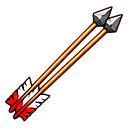
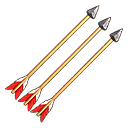
A-006: пачка 57/57, листы, 5 значков п. 1 в игре
Все 57 заданий Мака вернулись. Листы work/screens/A-006_*.png (значки
до/после, этап 3, враги, Цербер), значки 128 и концепты 512 в work/art/.
По эскизу перезаказаны и поставлены (TEMP_, уголок, манифест): молот,
стена деревянная, настил, дверь, стрелы. art_icon_set.py и
make_item_icons.py их не перезаписывают.

Changed region(s): [[0.0312, 0.0312, 0.9688, 0.9688]]

diff --git a/tools/art_a006.py b/tools/art_a006.py
@@ -6,6 +6,8 @@
     python tools/art_a006.py collect                  # скачать готовое в build/art_a006/raw/<ключ>.png
     python tools/art_a006.py wait [--every 600]       # фоновый сборщик: collect раз в N секунд, пока очередь не пуста
     python tools/art_a006.py table                    # таблица заданий (markdown) для карточки
+    python tools/art_a006.py sheets                   # листы work/screens/A-006_*.png, значки 128 и концепты 512 в work/art/
+    python tools/art_a006.py install предмет=ключ …   # поставить выбранные значки п. 1 в игру (TEMP_, уголок, манифест)
 
 Модель — Z-Image base (z_image_bf16), 30 шагов, cfg 4, граф как у tools/art_stage1.py. Значки п. 1 — img2img
 по эскизу (LoadImage → VAEEncode → KSampler с denoise < 1): контролнета под Z-Image на Маке нет (ModelPatchLoader
@@ -479,9 +481,169 @@ def cmd_table():
         print(f"| `{k}` | `{j['pid']}` | {j['seed']} | {sk} | {j.get('status')} |")
 
 
+# ---------------------------------------------------------------- листы
+P1_LABEL = {"hammer": "молот", "wood_wall": "стена деревянная", "platform": "настил", "door": "дверь", "arrows": "стрелы"}
+IC_LABEL = {"copper_helmet": "медный шлем", "copper_chestplate": "медный доспех", "copper_greaves": "медные поножи",
+            "copper_arrows": "медные стрелы", "bandage": "повязка", "healing_herb": "лечебная трава",
+            "torch_box": "факел-ящик", "wood_spikes": "шипы деревянные"}
+EN_LABEL = {"swordsman": "разбойник-мечник", "archer": "разбойник-лучник", "wolf": "волк", "shade": "тень"}
+ICONS_OUT = ROOT / "work" / "art" / "icons_a006"
+SCREENS = ROOT / "work" / "screens"
+
+
+def icon_pair(key):
+    """Сырая картинка → (128, 64) с вырезанным фоном; None — нет картинки."""
+    import numpy as np
+    sys.path.insert(0, str(Path(__file__).resolve().parent))
+    import art_icon_probe as probe
+    src = RAW / f"{key}.png"
+    if not src.exists():
+        return None
+    im = Image.open(src).convert("RGB")
+    cut = probe.cut_green(im)
+    border = np.concatenate([np.asarray(im)[:8].reshape(-1, 3), np.asarray(im)[-8:].reshape(-1, 3)])
+    med = np.median(border, axis=0)
+    if not (med[1] > med[0] + 60 and med[1] > med[2] + 60):     # фон не зелёный: цвет предмета не гасить
+        cut = Image.merge("RGBA", (*im.split(), cut.getchannel("A")))
+    return probe.fit(cut, 128), probe.fit(cut, 64)
+
+
+def label_font(size, bold=False):
+    sys.path.insert(0, str(Path(__file__).resolve().parent))
+    import art_icon_probe as probe
+    return probe.font(size, bold)
+
+
+def grass_cell(ic128):
+    sys.path.insert(0, str(Path(__file__).resolve().parent))
+    import art_icon_probe as probe
+    g = probe.grass(probe.CELL + 16, probe.CELL + 16)
+    g.alpha_composite(probe.cell_with(probe.fit_from(ic128, probe.ICON) if ic128 is not None else None), (8, 8))
+    return g
+
+
+def icon_sheet(title, rows, out, before=None):
+    """rows: [(подпись, [ключи])]; before: {подпись: картинка 128 «до»}."""
+    led = load_ledger()
+    ICONS_OUT.mkdir(parents=True, exist_ok=True)
+    ncol = max(len(k) for _, k in rows) + (2 if before else 0)
+    cw, rh, left, top = 150, 230, 200, 60
+    W, H = left + ncol * cw + 20, top + len(rows) * rh + 10
+    sh = Image.new("RGBA", (W, H), (236, 222, 196, 255))
+    d = ImageDraw.Draw(sh)
+    d.text((16, 14), title, fill=(50, 30, 20), font=label_font(24, True))
+    for ri, (lab, keys) in enumerate(rows):
+        y = top + ri * rh
+        d.text((16, y + 50), lab, fill=(50, 30, 20), font=label_font(20, True))
+        cells = []
+        if before:
+            cells.append(("было", before[lab][0]))
+            cells.append(("эскиз", before[lab][1]))
+        for k in keys:
+            pair = icon_pair(k)
+            if pair:
+                pair[0].save(ICONS_OUT / f"{k}_128.png", optimize=True)
+            j = led.get(k, {})
+            note = f"d={j['denoise']}" if j.get("denoise") else ("без эскиза" if k.startswith("p1_") else "")
+            cells.append((f"{k.rsplit('_', 1)[-1]} {note}".strip(), pair[0] if pair else None))
+        for ci, (cap, im) in enumerate(cells):
+            x = left + ci * cw
+            d.rectangle((x, y, x + 132, y + 132), outline=(170, 130, 80))
+            if im is None:
+                d.text((x + 10, y + 56), "нет", fill=(170, 40, 30), font=label_font(18))
+            else:
+                im = im.convert("RGBA")
+                if im.size != (128, 128):
+                    im = im.resize((128, 128), Image.LANCZOS)
+                sh.alpha_composite(im, (x + 2, y + 2))
+                if cap != "эскиз":
+                    sh.alpha_composite(grass_cell(im), (x + 34, y + 140))
+            d.text((x + 2, y + 208), cap, fill=(70, 45, 30), font=label_font(14))
+    SCREENS.mkdir(parents=True, exist_ok=True)
+    sh.convert("RGB").save(out, optimize=True)
+    print("лист:", out)
+
+
+def concept_sheet(title, rows, out, px, dst_dir):
+    dst_dir.mkdir(parents=True, exist_ok=True)
+    ncol = max(len(k) for _, k in rows)
+    left, top = 220, 60
+    W, H = left + ncol * (px + 12) + 10, top + len(rows) * (px + 40)
+    sh = Image.new("RGB", (W, H), (236, 222, 196))
+    d = ImageDraw.Draw(sh)
+    d.text((16, 14), title, fill=(50, 30, 20), font=label_font(24, True))
+    for ri, (lab, keys) in enumerate(rows):
+        y = top + ri * (px + 40)
+        d.text((16, y + px // 2 - 12), lab, fill=(50, 30, 20), font=label_font(22, True))
+        for ci, k in enumerate(keys):
+            x = left + ci * (px + 12)
+            src = RAW / f"{k}.png"
+            if src.exists():
+                im = Image.open(src).convert("RGB")
+                im.resize((512, 512), Image.LANCZOS).save(dst_dir / f"{k}.png", optimize=True)
+                sh.paste(im.resize((px, px), Image.LANCZOS), (x, y))
+            else:
+                d.rectangle((x, y, x + px, y + px), outline=(170, 130, 80))
+                d.text((x + 20, y + px // 2), "нет картинки", fill=(170, 40, 30), font=label_font(18))
+            d.text((x + 4, y + px + 6), k, fill=(70, 45, 30), font=label_font(15))
+    sh.save(out, optimize=True)
+    print("лист:", out)
+
+
+def cmd_sheets():
+    icons_b = ROOT / "art" / "style" / "icons_b"
+    temp = ROOT / "client" / "Assets" / "Art" / "_TEMP"
+    before = {}
+    for k, lab in P1_LABEL.items():
+        b = icons_b / f"{k}_128.png"
+        old = Image.open(b) if b.exists() else Image.open(temp / f"TEMP_item_{k}.png").resize((128, 128), Image.NEAREST)
+        before[lab] = (old, Image.open(SKETCH / f"sk_{k}.png").convert("RGBA"))
+    icon_sheet("A-006 п. 1 — перезаказ значков по эскизу (img2img Z-Image, denoise) и строгим промптом",
+               [(lab, [f"p1_{k}_{i}" for i in ("1", "2", "3", "4", "t")]) for k, lab in P1_LABEL.items()],
+               SCREENS / "A-006_icons_p1.png", before)
+    icon_sheet("A-006 п. 2 — значки этапа 3 (стиль Б), по 2 варианта",
+               [(lab, [f"ic_{k}_1", f"ic_{k}_2"]) for k, lab in IC_LABEL.items()], SCREENS / "A-006_icons_stage3.png")
+    concept_sheet("A-006 п. 3 — концепты врагов этапа 3 (вид сверху 3/4)",
+                  [(lab, [f"en_{k}_{i}" for i in (1, 2, 3)]) for k, lab in EN_LABEL.items()],
+                  SCREENS / "A-006_enemies.png", 384, ROOT / "work" / "art" / "enemies")
+    concept_sheet("A-006 п. 4 — Цербер, концепты босса (вид сверху 3/4)",
+                  [("Цербер", [f"cer_{i}" for i in (1, 2, 3, 4)])], SCREENS / "A-006_cerberus.png", 448,
+                  ROOT / "work" / "art" / "cerberus")
+
+
+
+def cmd_install(pairs):
+    """предмет=ключ … → art/style/icons_b/<предмет>_128/_64.png, TEMP_item_<предмет>.png (64, пурпурный уголок), манифест."""
+    import csv
+    icons_b = ROOT / "art" / "style" / "icons_b"
+    temp = ROOT / "client" / "Assets" / "Art" / "_TEMP"
+    man = ROOT / "art" / "manifest.csv"
+    led = load_ledger()
+    with man.open(encoding="utf-8", newline="") as f:
+        rows = list(csv.reader(f))
+    notes = {}
+    for pr in pairs:
+        item, _, key = pr.partition("=")
+        big, small = icon_pair(key)
+        big.save(icons_b / f"{item}_128.png", optimize=True)
+        small.save(icons_b / f"{item}_64.png", optimize=True)
+        t = small.copy()
+        ImageDraw.Draw(t).rectangle([0, 0, 7, 7], fill=(255, 0, 255, 255))
+        t.save(temp / f"TEMP_item_{item}.png", optimize=True)
+        j = led[key]
+        how = f"img2img по эскизу {j['sketch']}, denoise {j['denoise']}" if j.get("sketch") else "без эскиза"
+        notes[f"client/Assets/Art/_TEMP/TEMP_item_{item}.png"] = (
+            f"значок предмета «{P1_LABEL.get(item, item)}» 64x64; Мак, стиль Б (A-006: Z-Image base, {how}, seed {j['seed']}, "
+            f"ключ {key}); 128 px — art/style/icons_b/{item}_128.png; финальный — после приёмки Автора; скрипт tools/art_a006.py")
+        print(f"{item}: {key}")
+    rows = [[r[0], "placeholder", "А", notes[r[0]]] if r and r[0] in notes else r for r in rows]
+    with man.open("w", encoding="utf-8", newline="") as f:
+        csv.writer(f, lineterminator="\n").writerows(rows)
+
+
 def main():
     ap = argparse.ArgumentParser(description=__doc__, formatter_class=argparse.RawDescriptionHelpFormatter)
-    ap.add_argument("cmd", choices=["sketches", "list", "queue", "collect", "wait", "table"])
+    ap.add_argument("cmd", choices=["sketches", "list", "queue", "collect", "wait", "table", "sheets", "install"])
     ap.add_argument("keys", nargs="*")
     ap.add_argument("--every", type=int, default=600)
     ap.add_argument("--limit-h", type=float, default=11)
@@ -501,6 +663,10 @@ def main():
         print("ждут:", cmd_collect())
     elif a.cmd == "wait":
         sys.exit(cmd_wait(a.every, a.limit_h))
+    elif a.cmd == "install":
+        cmd_install(a.keys)
+    elif a.cmd == "sheets":
+        cmd_sheets()
     else:
         cmd_table()
 

diff --git a/tools/make_item_icons.py b/tools/make_item_icons.py
@@ -645,8 +645,8 @@ def main() -> None:
     with MANIFEST.open(encoding="utf-8", newline="") as f:
         rows = list(csv.reader(f))
     known = {r[0] for r in rows if r}
-    # A-005: значки из набора Мака (стиль Б) скрипт не перерисовывает — их делает tools/art_icon_set.py
-    mac_b = {r[0] for r in rows if r and len(r) > 3 and "стиль Б (A-005" in r[3]}
+    # A-005/A-006: значки из набора Мака (стиль Б) скрипт не перерисовывает — их делают tools/art_icon_set.py и tools/art_a006.py
+    mac_b = {r[0] for r in rows if r and len(r) > 3 and ("стиль Б (A-005" in r[3] or "стиль Б (A-006" in r[3])}
     if "--c008" in sys.argv:
         # C-008: только значки построек по силуэту (остальные картинки не трогать); строки манифеста — новое описание.
         notes_of = {f"client/Assets/Art/_TEMP/TEMP_item_{k}.png": n for k, (_, n) in BUILD_ICONS_C008.items()}

diff --git a/tools/art_icon_set.py b/tools/art_icon_set.py
@@ -57,7 +57,9 @@ CHOICE = {
     "platform": "s_platform_r", "wood_wall": "s_wood_wall_r", "copper_ore": "s_copper_ore_r",
 }
 # Не удались все попытки — остаётся прежняя заглушка скрипта (молот: 2 варианта и перезаказ — на плашке / голова отдельно).
-KEEP = {"hammer"}
+KEEP = set()
+# Перезаказаны в A-006 по эскизу (tools/art_a006.py install) — этот скрипт их не перезаписывает.
+A006 = {"hammer", "wood_wall", "platform", "door", "arrows"}
 
 
 def source(item: str, raw: Path, praw: Path) -> Path:
@@ -103,6 +105,9 @@ def install(raw: Path, praw: Path) -> None:
         rows = list(csv.reader(f))
     notes = {}
     for item in LABEL:
+        if item in A006:
+            print(f"{item}: A-006 (tools/art_a006.py) — пропуск")
+            continue
         if item in KEEP:
             print(f"{item}: прежняя заглушка (KEEP)")
             continue

diff --git a/work/tasks/A-006.md b/work/tasks/A-006.md
@@ -29,3 +29,81 @@
 
 - «Факел-ящик» понят как напольный факел, воткнутый в деревянный ящик с камнями (светильник двора). «Повязка/лечебная трава» — два значка. Медных стрел в вики нет — сделаны по образцу стрел с медными наконечниками (второй вариант — по эскизу стрел).
 - Лечебная трава — на белом фоне (зелёную на зелёном не вырезать).
+- 16.11 06:40 — все **57 из 57** заданий вернулись (последнее — `cer_4`, 06:40), потерь нет. Значок 768 px по эскизу — ~4,5 мин, концепт 1024 px — ~10 мин. Мак к вечеру уже на `llm` (переключён не этим исполнителем).
+- 16.11 вечер — листы, выбор и установка 5 значков п. 1 в игру; сборка клиента.
+
+## Задания
+
+Стиль и камера — константы `STYLE_B`, `CAM_ICON` (у травы `CAM_ICON_WHITE`), `STYLE_CHAR`, `CAM_CHAR`, негативы `NEG_ICON` / `NEG_CHAR` в `tools/art_a006.py` (стиль Б и камера — как в A-005, в негатив значков добавлены `round badge, medallion, disc, plate…`). Z-Image base, 30 шагов, cfg 4; значки 768 px, концепты 1024 px. Эскизы — `python tools/art_a006.py sketches` (в `build/art_a006/sketch/`, вне git).
+
+| Ключ | id задания | seed | эскиз / denoise | Статус | Предмет (промпт без стиля и камеры) |
+|---|---|---|---|---|---|
+| `p1_hammer_1` | `4aa88003-248a-4ffa-b972-d3a644cc3022` | 6001 | sk_hammer / 0.62 | готово | a primitive stone sledgehammer lying diagonally, one long straight light brown wooden handle from the lower left to the upper right, at its upper right end a rectangular block head of grey stone with two flat ends set across the handle and lashed to it with crossed leather cord, head and handle are one connected object, the whole hammer fully visible including the end of the handle |
+| `p1_hammer_2` | `7855924b-0c16-4772-876c-7b7d085db353` | 6002 | sk_hammer / 0.72 | готово | a primitive stone sledgehammer lying diagonally, one long straight light brown wooden handle from the lower left to the upper right, at its upper right end a rectangular block head of grey stone with two flat ends set across the handle and lashed to it with crossed leather cord, head and handle are one connected object, the whole hammer fully visible including the end of the handle |
+| `p1_hammer_3` | `3b9a97b0-5a98-415b-a919-759dbda2b6e9` | 6003 | sk_hammer / 0.8 | готово | a primitive stone sledgehammer lying diagonally, one long straight light brown wooden handle from the lower left to the upper right, at its upper right end a rectangular block head of grey stone with two flat ends set across the handle and lashed to it with crossed leather cord, head and handle are one connected object, the whole hammer fully visible including the end of the handle |
+| `p1_hammer_4` | `457da805-96d0-4129-b37b-a52956d373ab` | 6004 | sk_hammer / 0.88 | готово | a primitive stone sledgehammer lying diagonally, one long straight light brown wooden handle from the lower left to the upper right, at its upper right end a rectangular block head of grey stone with two flat ends set across the handle and lashed to it with crossed leather cord, head and handle are one connected object, the whole hammer fully visible including the end of the handle |
+| `p1_hammer_t` | `c21a29aa-471d-48a5-b401-c773e485cae9` | 6005 | — | готово — **в игре** (молот наконец цельный, без плашки) | a primitive stone sledgehammer lying diagonally, one long straight light brown wooden handle from the lower left to the upper right, at its upper right end a rectangular block head of grey stone with two flat ends set across the handle and lashed to it with crossed leather cord, head and handle are one connected object, the whole hammer fully visible including the end of the handle, a single object, no medallion, no round badge background |
+| `p1_wood_wall_1` | `a64c8229-f864-47c3-a325-a24bbbfa17a3` | 6006 | sk_wood_wall / 0.62 | готово | a single straight section of a thin wooden house wall seen from above at a three-quarter angle, a long low wall panel of horizontal sawn brown planks between two squared timber corner posts, the narrow top edge shows the wall is thin, about twice as long as it is tall, standing upright, not a box, not a crate |
+| `p1_wood_wall_2` | `117488cb-8859-4061-83b5-253c318b46ba` | 6007 | sk_wood_wall / 0.72 | готово | a single straight section of a thin wooden house wall seen from above at a three-quarter angle, a long low wall panel of horizontal sawn brown planks between two squared timber corner posts, the narrow top edge shows the wall is thin, about twice as long as it is tall, standing upright, not a box, not a crate |
+| `p1_wood_wall_3` | `0873d4b1-c710-43f4-885b-6e5370efc299` | 6008 | sk_wood_wall / 0.8 | готово | a single straight section of a thin wooden house wall seen from above at a three-quarter angle, a long low wall panel of horizontal sawn brown planks between two squared timber corner posts, the narrow top edge shows the wall is thin, about twice as long as it is tall, standing upright, not a box, not a crate |
+| `p1_wood_wall_4` | `035c4a0e-1ed3-489f-9bab-2c694fab0417` | 6009 | sk_wood_wall / 0.88 | готово | a single straight section of a thin wooden house wall seen from above at a three-quarter angle, a long low wall panel of horizontal sawn brown planks between two squared timber corner posts, the narrow top edge shows the wall is thin, about twice as long as it is tall, standing upright, not a box, not a crate |
+| `p1_wood_wall_t` | `9b375831-2844-42cd-8282-c2b16cca70b7` | 6010 | — | готово — **в игре** (кусок стены с толщиной и столбами, не ящик) | a single straight section of a thin wooden house wall seen from above at a three-quarter angle, a long low wall panel of horizontal sawn brown planks between two squared timber corner posts, the narrow top edge shows the wall is thin, about twice as long as it is tall, standing upright, not a box, not a crate, a single object, no medallion, no round badge background |
+| `p1_platform_1` | `e6f96424-2340-4896-9df0-ecf2dc1a73e0` | 6011 | sk_platform / 0.62 | готово | a square wooden deck platform tile seen from high above, parallel brown wooden planks with thin dark gaps between them laid on two cross beams, only short stubs of support posts visible at the front corners, a flat dock floor piece, not a table, not a bench |
+| `p1_platform_2` | `049020e6-a31a-4fb6-8ca2-4e69b4cdb82c` | 6012 | sk_platform / 0.72 | готово | a square wooden deck platform tile seen from high above, parallel brown wooden planks with thin dark gaps between them laid on two cross beams, only short stubs of support posts visible at the front corners, a flat dock floor piece, not a table, not a bench |
+| `p1_platform_3` | `86fcfe60-90fe-4e88-a408-4924e564ac33` | 6013 | sk_platform / 0.8 | готово — **в игре** (настил на сваях с просветами) | a square wooden deck platform tile seen from high above, parallel brown wooden planks with thin dark gaps between them laid on two cross beams, only short stubs of support posts visible at the front corners, a flat dock floor piece, not a table, not a bench |
+| `p1_platform_4` | `4e2321c9-7fb6-468a-93bc-463cb98fa58f` | 6014 | sk_platform / 0.88 | готово | a square wooden deck platform tile seen from high above, parallel brown wooden planks with thin dark gaps between them laid on two cross beams, only short stubs of support posts visible at the front corners, a flat dock floor piece, not a table, not a bench |
+| `p1_platform_t` | `b49a8336-2ac2-40e5-ab64-e5c3ae949595` | 6015 | — | готово | a square wooden deck platform tile seen from high above, parallel brown wooden planks with thin dark gaps between them laid on two cross beams, only short stubs of support posts visible at the front corners, a flat dock floor piece, not a table, not a bench, a single object, no medallion, no round badge background |
+| `p1_door_1` | `529e7482-352b-462a-89e7-8c0284a8b54d` | 6016 | sk_door / 0.62 | готово | a single closed wooden door set in a thick wooden door frame, two upright timber jambs and a heavy lintel beam on top around a door leaf of vertical brown planks, two black iron strap hinges and a round iron ring handle, a grey stone threshold at the bottom, the frame clearly visible all around the door, front three-quarter view |
+| `p1_door_2` | `03e22111-be26-4dbd-90c5-f7f2365da8c4` | 6017 | sk_door / 0.72 | готово | a single closed wooden door set in a thick wooden door frame, two upright timber jambs and a heavy lintel beam on top around a door leaf of vertical brown planks, two black iron strap hinges and a round iron ring handle, a grey stone threshold at the bottom, the frame clearly visible all around the door, front three-quarter view |
+| `p1_door_3` | `8eddb584-294a-4be8-b998-e758e55e3f19` | 6018 | sk_door / 0.8 | готово — **в игре** (дверь в раме с притолокой и порогом) | a single closed wooden door set in a thick wooden door frame, two upright timber jambs and a heavy lintel beam on top around a door leaf of vertical brown planks, two black iron strap hinges and a round iron ring handle, a grey stone threshold at the bottom, the frame clearly visible all around the door, front three-quarter view |
+| `p1_door_4` | `f68cf111-37b7-423e-8d37-15b93f474433` | 6019 | sk_door / 0.88 | готово | a single closed wooden door set in a thick wooden door frame, two upright timber jambs and a heavy lintel beam on top around a door leaf of vertical brown planks, two black iron strap hinges and a round iron ring handle, a grey stone threshold at the bottom, the frame clearly visible all around the door, front three-quarter view |
+| `p1_door_t` | `3d20fd42-4686-4e07-8a27-acb2117d5e75` | 6020 | — | готово | a single closed wooden door set in a thick wooden door frame, two upright timber jambs and a heavy lintel beam on top around a door leaf of vertical brown planks, two black iron strap hinges and a round iron ring handle, a grey stone threshold at the bottom, the frame clearly visible all around the door, front three-quarter view, a single object, no medallion, no round badge background |
+| `p1_arrows_1` | `61ddbde5-9fea-4ae6-b242-f4ed7f6a16f6` | 6021 | sk_arrows / 0.62 | готово | a small bundle of exactly three wooden arrows lying diagonally side by side and parallel, straight light wooden shafts, sharp grey knapped stone arrowheads at the upper right, red and white feather fletching at the lower left, three arrowheads and three fletchings clearly visible |
+| `p1_arrows_2` | `71b807de-0cb3-49ef-8b79-79bee3b715c5` | 6022 | sk_arrows / 0.72 | готово | a small bundle of exactly three wooden arrows lying diagonally side by side and parallel, straight light wooden shafts, sharp grey knapped stone arrowheads at the upper right, red and white feather fletching at the lower left, three arrowheads and three fletchings clearly visible |
+| `p1_arrows_3` | `b7e455d2-90cb-434d-8476-2eab4f38f1c6` | 6023 | sk_arrows / 0.8 | готово — **в игре** (три стрелы) | a small bundle of exactly three wooden arrows lying diagonally side by side and parallel, straight light wooden shafts, sharp grey knapped stone arrowheads at the upper right, red and white feather fletching at the lower left, three arrowheads and three fletchings clearly visible |
+| `p1_arrows_4` | `c7c8eca2-7022-419c-91e6-4c2d34a1721c` | 6024 | sk_arrows / 0.88 | готово | a small bundle of exactly three wooden arrows lying diagonally side by side and parallel, straight light wooden shafts, sharp grey knapped stone arrowheads at the upper right, red and white feather fletching at the lower left, three arrowheads and three fletchings clearly visible |
+| `p1_arrows_t` | `6dcb2f19-b35f-43fb-801f-eaaba89b4e63` | 6025 | — | готово | a small bundle of exactly three wooden arrows lying diagonally side by side and parallel, straight light wooden shafts, sharp grey knapped stone arrowheads at the upper right, red and white feather fletching at the lower left, three arrowheads and three fletchings clearly visible, a single object, no medallion, no round badge background |
+| `en_swordsman_1` | `c5259973-896c-4a4b-aa46-d098dabb2907` | 6026 | — | готово | a Greek bandit swordsman, a lean rough man with a short dark beard, a faded red cloth hood, a padded linen tunic under a brown leather cuirass, leather bracers, sandals with leg wraps, a short leaf-shaped bronze sword in the right hand and a small round wooden shield on the left arm, menacing stance ready to strike |
+| `en_swordsman_2` | `1b9bf0ba-7a00-430b-ad10-4251a724f590` | 6027 | — | готово — сильный | a Greek bandit swordsman, a stocky brute with a shaved head and a scarred face, a ragged dark blue cloak over bare shoulders, a studded leather kilt and belt, a curved bronze kopis sword held forward in the right hand, wide aggressive stance |
+| `en_swordsman_3` | `94145cfd-a3ab-4209-98f6-c9b7499cadb6` | 6028 | — | готово | a Greek bandit swordsman with a dark cloth mask over the lower face and a brown hood, a patched ochre tunic and leather shoulder guard on one side, a straight bronze short sword raised, a coil of rope and a pouch on the belt, sneaking forward |
+| `en_archer_1` | `1e014e98-f648-4b01-b3ff-d2f69b74b0b1` | 6029 | — | готово | a Greek bandit archer, a slim young man in a brown and ochre hooded cloak, a leather quiver full of arrows on the back, holding a wooden recurve bow drawn with an arrow nocked, aiming forward |
+| `en_archer_2` | `c945c18e-5aef-4142-96e9-c2ef2a4aa83d` | 6030 | — | готово | a Greek bandit archer, a wiry woman with braided dark hair and a red headband, a short leather vest over a linen tunic, a bow held low with an arrow ready, a quiver on the hip, alert stance |
+| `en_archer_3` | `e53884da-f8fa-477d-9132-92cfee2cbf9a` | 6031 | — | готово | a Greek bandit archer in a hooded dark grey cloak with a tattered hem, a face half hidden in shadow, a long bow drawn to the cheek, a quiver of red-fletched arrows on the back, kneeling on one knee to shoot |
+| `en_wolf_1` | `574a8de2-bcba-45e6-b4a2-eae347a7ba78` | 6032 | — | готово — сильный | a grey wolf, a lean fast predator with thick grey and tawny fur, yellow eyes and bared fangs, crouched low ready to leap, the whole quadruped body visible |
+| `en_wolf_2` | `5b3222e8-030c-4ff0-a80e-0fd70b8038d3` | 6033 | — | готово | a grey wolf in mid-run, long legs stretched, fur ruffled by the wind, dark grey back fading to a pale belly, ears back and teeth showing, the whole quadruped body visible |
+| `en_wolf_3` | `1b3dd4d0-6d19-47a7-ba49-7c2e5000f835` | 6034 | — | готово | a large dark grey wolf with a scarred muzzle, standing with head lowered and hackles raised, snarling, glowing amber eyes, the whole quadruped body visible |
+| `en_shade_1` | `e2160ab3-484a-408b-be82-8ba1a6f1f3fd` | 6035 | — | готово — сильный | a shade of the dead from the Greek underworld, a tall gaunt ghostly human figure in a tattered flowing shroud, translucent smoky dark indigo and violet body that fades into wisps at the bottom instead of legs, pale glowing cyan eyes, long clawed hands reaching forward, a faint cold blue glow around it |
+| `en_shade_2` | `52f5a335-e53b-4b89-acc4-fc8cc7a4cdde` | 6036 | — | готово | a hunched ghost of a dead warrior, a translucent blue-grey spectral body in broken bronze armor and a cracked crested helmet, empty glowing eye holes, the lower body dissolving into dark smoke, floating forward fast |
+| `en_shade_3` | `0ca4d591-d27c-4799-a0b4-643b4ce94eb3` | 6037 | — | готово | a shadow wraith, a pitch black hooded shape of living darkness with ragged edges like torn cloth, two bright white glowing eyes, thin long arms with sharp fingers, purple embers drifting from it, floating above the ground |
+| `ic_copper_helmet_1` | `358c79ae-4b82-4332-97ae-81430cf378d3` | 6038 | — | готово | a copper helmet in ancient Greek Corinthian style, polished bright orange copper with a nose guard and cheek guards, a short red horsehair crest on top, empty helmet, no head |
+| `ic_copper_helmet_2` | `bd9fe46f-fe4b-4cd4-9ce9-1adeb71a2b99` | 6039 | — | готово | a copper helmet in ancient Greek Corinthian style, polished bright orange copper with a nose guard and cheek guards, a short red horsehair crest on top, empty helmet, no head |
+| `ic_copper_chestplate_1` | `5eb1fcce-a596-4b6e-90f5-ae81937ed98b` | 6040 | — | готово | a copper muscle cuirass breastplate in ancient Greek style, polished bright orange copper chest armor shaped like a muscular torso, leather shoulder straps and a short skirt of leather strips below, empty armor, no person |
+| `ic_copper_chestplate_2` | `a75c1652-4946-4897-b25c-c962b1a4876b` | 6041 | — | готово | a copper muscle cuirass breastplate in ancient Greek style, polished bright orange copper chest armor shaped like a muscular torso, leather shoulder straps and a short skirt of leather strips below, empty armor, no person |
+| `ic_copper_greaves_1` | `2d5bc1e9-f769-4527-bd1a-8de7c704a82b` | 6042 | — | готово | a pair of copper greaves, two shin guards of polished bright orange copper shaped to the calf with leather straps and buckles, standing upright side by side, empty, no legs |
+| `ic_copper_greaves_2` | `06bb298c-b3c7-4f5e-9c37-2c8b65d3eda5` | 6043 | — | готово | a pair of copper greaves, two shin guards of polished bright orange copper shaped to the calf with leather straps and buckles, standing upright side by side, empty, no legs |
+| `ic_copper_arrows_1` | `5a607298-92b9-45b0-aa88-0697448459f4` | 6044 | — | готово | a small bundle of exactly three wooden arrows lying diagonally side by side and parallel, straight light wooden shafts, sharp shiny polished bright orange copper arrowheads at the upper right, white and red feather fletching at the lower left |
+| `ic_copper_arrows_2` | `cf908061-b284-4241-9dfa-067643b38c67` | 6045 | sk_copper_arrows / 0.78 | готово | a small bundle of exactly three wooden arrows lying diagonally side by side and parallel, straight light wooden shafts, sharp shiny polished bright orange copper arrowheads at the upper right, white and red feather fletching at the lower left |
+| `ic_bandage_1` | `1cb9148c-f5fa-4097-a021-a2f9913a1e37` | 6046 | — | готово | a rolled linen bandage, a tight roll of clean off-white cloth strip with one loose end unrolled, tied with a thin red thread |
+| `ic_bandage_2` | `8670c1f0-0ee6-4ee6-9774-7b27dcc83103` | 6047 | — | готово — не удался: на плашке | a rolled linen bandage, a tight roll of clean off-white cloth strip with one loose end unrolled, tied with a thin red thread |
+| `ic_healing_herb_1` | `4b77bb48-0326-40ee-b7f6-e136357276ea` | 6048 | — | готово | a small bunch of medicinal healing herbs, fresh vivid green leaves and small white and yellow flowers on stems, tied together with a twine string |
+| `ic_healing_herb_2` | `ce36b68b-d83c-4c4a-b93d-69eb49948cf8` | 6049 | — | готово | a small bunch of medicinal healing herbs, fresh vivid green leaves and small white and yellow flowers on stems, tied together with a twine string |
+| `ic_torch_box_1` | `60427f7f-e5db-4ea7-9518-cb1efeb8bf6f` | 6050 | — | готово | a standing floor torch to light a yard: a wooden torch post stuck upright in a small square wooden crate filled with grey stones, a bright warm orange and yellow flame burning on top |
+| `ic_torch_box_2` | `079e2575-9f1f-46a1-b20d-6884bf8c1979` | 6051 | — | готово | a standing floor torch to light a yard: a wooden torch post stuck upright in a small square wooden crate filled with grey stones, a bright warm orange and yellow flame burning on top |
+| `ic_wood_spikes_1` | `3e2664a6-3bc6-4908-9a4c-7286d88be108` | 6052 | — | готово | a wooden spike trap, a low square wooden frame base with a dense row of sharpened wooden stakes pointing up and outward, rawhide lashings, a placeable trap object |
+| `ic_wood_spikes_2` | `166148ce-d391-4130-8281-c5494ee47f07` | 6053 | — | готово | a wooden spike trap, a low square wooden frame base with a dense row of sharpened wooden stakes pointing up and outward, rawhide lashings, a placeable trap object |
+| `cer_1` | `f526dd24-d987-430b-9af1-b4e725654dcb` | 6054 | — | готово — не удался: стоит как человек | Cerberus, the giant three-headed hound guarding the gates of Hades, a massive muscular dog with three heads on thick necks, manes of writhing snakes on the necks, a long serpent for a tail, the whole beast seen from above at a three-quarter angle, a huge boss creature about three times the size of a man, styled after ancient Greek black-figure pottery: a glossy black body with terracotta orange and red accents and incised fine lines |
+| `cer_2` | `c6d543c5-676e-4034-abdc-650c88e516af` | 6055 | — | готово — лучший | Cerberus, the giant three-headed hound guarding the gates of Hades, a massive muscular dog with three heads on thick necks, manes of writhing snakes on the necks, a long serpent for a tail, the whole beast seen from above at a three-quarter angle, a huge boss creature about three times the size of a man, a naturalistic huge dark hound with coarse black and charcoal fur, scars and bronze spiked collars on every neck |
+| `cer_3` | `3009a3c7-bbd4-4fb7-b1c1-8dee94ba6aad` | 6056 | — | готово — хороший | Cerberus, the giant three-headed hound guarding the gates of Hades, a massive muscular dog with three heads on thick necks, manes of writhing snakes on the necks, a long serpent for a tail, the whole beast seen from above at a three-quarter angle, a huge boss creature about three times the size of a man, a hellish beast with smouldering ember cracks in its black hide, glowing red eyes, green poisonous foam dripping from the right head's jaws |
+| `cer_4` | `ee5d2a09-73d9-45d6-9c38-073f36b095cd` | 6057 | — | готово — не удался: видно две головы | Cerberus, the giant three-headed hound guarding the gates of Hades, a massive muscular dog with three heads on thick necks, manes of writhing snakes on the necks, a long serpent for a tail, the whole beast seen from above at a three-quarter angle, a huge boss creature about three times the size of a man, a sleek giant black mastiff with a bronze harness, the middle head howling with jaws wide open, the left head snarling, the right head drooling foam |
+
+## Итог
+
+**Листы:** `work/screens/A-006_icons_p1.png` (п. 1: было · эскиз · 4 варианта по эскизу с denoise 0,62–0,88 · 1 строгим промптом; под каждым — ячейка 40 px на траве), `work/screens/A-006_icons_stage3.png` (п. 2), `work/screens/A-006_enemies.png` (п. 3), `work/screens/A-006_cerberus.png` (п. 4). Значки 128 px — `work/art/icons_a006/`, концепты 512 px — `work/art/enemies/`, `work/art/cerberus/`.
+
+**П. 1 — эскиз помог.** Все пять перезаказов дали узнаваемую форму во всех 5 вариантах, ни одной плашки-медальона (в A-005 молот не вышел трижды). Малый denoise (0,62) держит эскиз, но плоско; 0,8–0,88 и вариант без эскиза (строгий промпт + запреты в негативе) — объёмнее. **В игре** (`tools/art_a006.py install`, `TEMP_item_*` 64 px с уголком, строки манифеста «стиль Б (A-006 …)», `check_temp_assets` — 97 заглушек, нарушений нет): молот `p1_hammer_t`, стена деревянная `p1_wood_wall_t` (стоящий кусок стены с толщиной и столбами — больше не ящик), настил `p1_platform_3` (палуба на сваях с просветами — не скамья), дверь `p1_door_3` (рама, притолока, порог), стрелы `p1_arrows_3` (три стрелы). `tools/art_icon_set.py` и `tools/make_item_icons.py` эти значки больше не перезаписывают.
+
+**П. 2 — значки этапа 3:** удались оба варианта шлема, доспеха, поножей, медных стрел (второй — по эскизу стрел), травы (белый фон вырезается чисто), факела-ящика, шипов. Повязка: 1 — хорошо, 2 — на плашке. В игру не ставились (предметов в `ItemTable` ещё нет).
+
+**П. 3 — враги:** все 12 — один персонаж, вид сверху 3/4, читаемый силуэт. Сильные: мечник 1 (красный капюшон, щит) и 2, волк 1 (присел перед прыжком) и 3, тень 1 (синий саван) и 3 (чёрный призрак с фиолетовым). Лучник 3 стреляет «в сторону» — силуэт мелкий. Слабость общая: ракурс местами ближе к виду сверху, чем у мира игры; рисунок детальнее, чем позволит спрайт 128 px — это концепты для перерисовки, не спрайты.
+
+**П. 4 — Цербер:** 2 из 4 годны — `cer_2` (лучший: три головы, змеи, ошейники) и `cer_3` (огненные трещины, пена аконита). `cer_1` — стоит на задних лапах как человек, `cer_4` — видно две головы.

diff --git a/work/modules/art.md b/work/modules/art.md
@@ -43,5 +43,8 @@
 ### A-005 (16.11)
 Значки предметов в стиле Б по выбору Автора (проба 15.11: форма как Factorio, тонкий тёмный контур, цвета как Terraria): 30 из 31 строки `ItemTable` — с Мака (Z-Image base, набор `art/style/sets/a005.json`, ключи `s_<предмет>`), молот — прежняя заглушка (три попытки — на плашке). Конвейер — `tools/art_icon_set.py` (вырезание зелёного фона и уменьшение как у `tools/art_icon_probe.py`, выбор варианта `CHOICE`, `KEEP`, установка в `TEMP_item_*` 64 × 64 с уголком, строки манифеста `placeholder` «Мак, стиль Б (A-005 …)», лист `work/screens/A-005_set.png`); 128 px — `art/style/icons_b/`. `make_item_icons.py` эти значки не перерисовывает. Сырые 1024 px — вне git (воспроизводятся по зерну). Финальные имена без `TEMP_` — после приёмки Автора.
 
+### A-006 (16.11)
+Ночная пачка на Маке (57 заданий Z-Image): `tools/art_a006.py` — эскизы-силуэты PIL и **img2img по эскизу** (контролнета под Z-Image на Маке нет; denoise 0,62–0,88), заказ, сборщик `wait`, листы `work/screens/A-006_*.png`, `install` значков. Перезаказаны по эскизу и поставлены в игру: молот, стена деревянная, настил, дверь, стрелы. Значки этапа 3 (медная броня, медные стрелы, повязка, трава, факел-ящик, шипы) — `work/art/icons_a006/`, в игру не ставились; концепты врагов — `work/art/enemies/`, Цербера — `work/art/cerberus/`. Сложную форму заказывать по эскизу, а не словами.
+
 ## Дальше
 Заказать на Мак: сундук, кровать, стены (с высотой и автосоединением), полы, верстак, костёр, факел (сейчас нарисованы скриптом); пучки травы 3–4 формы, папоротник, камыш, цветы, лист (128 px, опора внизу по центру) — заменить лист, нарисованный кодом. `.meta`/импорт (шаг 1.4); переходы между видами земли и берег воды; вторая текстура на вид земли (чередование по шуму); перезаказать сухую траву и каменистую; палитра по биомам (LUT).
